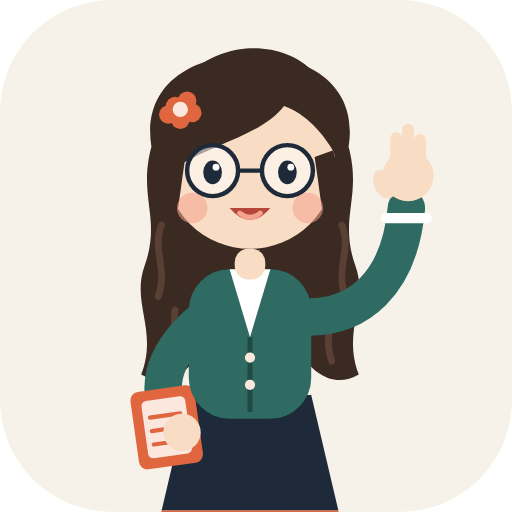
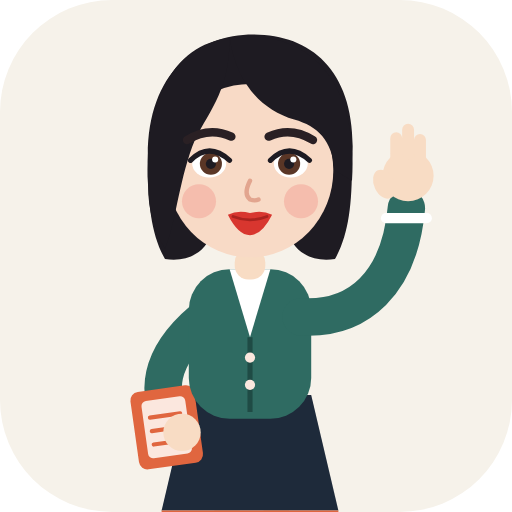
선생님 일러스트 얼굴을 보내주신 인물 느낌(검은 단발, 짙은 눈썹, 갈색 눈, 붉은 입술)으로 변경, 바로가기 아이콘 갱신
Claude-Session: https://claude.ai/code/session_01GFiG5geJu7jjXnYb4pYTSP

Changed region(s): [[0.25, 0.0625, 0.7188, 0.7188], [0.5938, 0.625, 0.7188, 0.75]]

diff --git a/index.html b/index.html
@@ -210,9 +210,6 @@ button.tile{border:0;width:100%;font-family:var(--f-label);cursor:pointer}
       <path d="M93 372c0-8 8-12 16-12h8v12c0 6-4 10-10 10h-8c-4 0-6-4-6-10z" fill="#1F4B45"/><path d="M149 372c0-8-8-12-16-12h-8v12c0 6 4 10 10 10h8c4 0 6-4 6-10z" fill="#1F4B45"/>
       <!-- skirt -->
       <path d="M84 250h72l16 68H68z" fill="#1E2A3A"/><path d="M68 318h104v6H68z" fill="#E0663F"/>
-      <!-- long wavy hair (behind body) -->
-      <g class="tail"><path d="M62 104C56 66 88 50 120 50s64 16 58 54c8 30-6 42 4 70 8 22-8 38 2 64-14 8-26 0-34-12H90c-8 12-20 20-34 12 10-26-6-42 2-64 10-28-4-40 4-70z" fill="#3B2A22"/>
-      <path d="M68 150c-6 14 4 26-2 42M174 150c6 14-4 26 2 42M76 200c-2 10 2 20-2 30M166 200c2 10-2 20 2 30" stroke="#5A4034" stroke-width="4" stroke-linecap="round" fill="none"/></g>
       <!-- book arm (viewer's left) -->
       <path d="M92 206c-26 22-28 44-16 60" stroke="#2F6B62" stroke-width="22" stroke-linecap="round" fill="none"/>
       <rect x="52" y="246" width="38" height="46" rx="5" fill="#E0663F" transform="rotate(-8 71 269)"/><rect x="58" y="252" width="26" height="34" rx="3" fill="#FBE7DE" transform="rotate(-8 71 269)"/><path d="M62 262h18M62 270h18M62 278h12" stroke="#E0663F" stroke-width="2.4" stroke-linecap="round" transform="rotate(-8 71 269)"/>
@@ -222,20 +219,20 @@ button.tile{border:0;width:100%;font-family:var(--f-label);cursor:pointer}
       <path d="M108 176l12 40 12-40z" fill="#fff"/><path d="M120 216v44" stroke="#1F4B45" stroke-width="3"/>
       <circle cx="120" cy="228" r="3" fill="#FBE7DE"/><circle cx="120" cy="244" r="3" fill="#FBE7DE"/>
       <rect x="111" y="164" width="18" height="18" rx="8" fill="#F8DCC4"/>
-      <!-- hair back -->
-      
-      <!-- head -->
-      <circle cx="120" cy="114" r="50" fill="#F8DCC4"/>
-      <!-- bangs -->
-      <path d="M71 106c-5 20-3 36 5 46 2-13 4-29 6-42z" fill="#3B2A22"/><path d="M169 106c5 20 3 36-5 46-2-13-4-29-6-42z" fill="#3B2A22"/>
-      <path d="M66 116C62 64 98 46 122 46c30 0 54 22 50 66-8-16-20-28-32-32-12 16-40 22-60 34-4 2-8 4-14 2z" fill="#3B2A22"/>
-      <g class="bow" transform="translate(-4 4)"><circle cx="80" cy="76" r="5.5" fill="#E0663F"/><circle cx="87" cy="73" r="5.5" fill="#E0663F"/><circle cx="90" cy="80" r="5.5" fill="#E0663F"/><circle cx="83" cy="84" r="5.5" fill="#E0663F"/><circle cx="76" cy="81" r="5.5" fill="#E0663F"/><circle cx="83" cy="78" r="4.5" fill="#FBE7DE"/></g>
-      <!-- glasses & eyes -->
-      <circle cx="98" cy="118" r="15" fill="#fff" fill-opacity=".55" stroke="#1E2A3A" stroke-width="2.6"/><circle cx="142" cy="118" r="15" fill="#fff" fill-opacity=".55" stroke="#1E2A3A" stroke-width="2.6"/><path d="M113 118h14" stroke="#1E2A3A" stroke-width="2.6"/>
-      <ellipse cx="98" cy="119" rx="5.5" ry="7" fill="#1E2A3A"/><ellipse cx="142" cy="119" rx="5.5" ry="7" fill="#1E2A3A"/>
-      <circle cx="100" cy="116" r="2" fill="#fff"/><circle cx="144" cy="116" r="2" fill="#fff"/>
-      <circle cx="86" cy="140" r="9" fill="#F4A38C" opacity=".55"/><circle cx="154" cy="140" r="9" fill="#F4A38C" opacity=".55"/>
-      <path d="M108 140q12 14 24 0z" fill="#B5473A"/><path d="M114 143q6 5 12 0" stroke="#F4A38C" stroke-width="3" stroke-linecap="round" fill="none"/>
+      <!-- hair & face -->
+      <g class="tail"><path d="M60 114C58 62 88 38 122 38c36 0 62 24 58 76 0 24-2 42-10 56-14 2-24-4-28-16H98c-4 12-14 18-28 16-8-14-10-32-10-56z" fill="#1E1B22"/></g>
+      <ellipse cx="120" cy="118" rx="49" ry="51" fill="#F8DAC6"/>
+      <path d="M108 40C152 34 184 62 180 124l-10-6c-2-18-10-26-24-30-20-6-34-22-38-48z" fill="#1E1B22"/>
+      <path d="M108 40C74 44 58 78 60 126c0 16 4 28 10 38 6-14 8-38 16-60 8-20 22-30 22-64z" fill="#1E1B22"/>
+      <path d="M83 100q13-8 26-2M131 98q13-6 26 2" stroke="#2A2024" stroke-width="5" stroke-linecap="round" fill="none"/>
+      <ellipse cx="96" cy="114" rx="10" ry="8" fill="#fff"/><ellipse cx="144" cy="114" rx="10" ry="8" fill="#fff"/>
+      <circle cx="97" cy="114" r="6.5" fill="#5A3626"/><circle cx="143" cy="114" r="6.5" fill="#5A3626"/>
+      <circle cx="97" cy="114" r="3" fill="#1E1B22"/><circle cx="143" cy="114" r="3" fill="#1E1B22"/>
+      <circle cx="99.5" cy="111.5" r="1.8" fill="#fff"/><circle cx="145.5" cy="111.5" r="1.8" fill="#fff"/>
+      <path d="M85 112q11-11 23 0M132 112q11-11 23 0" stroke="#1E1B22" stroke-width="3" stroke-linecap="round" fill="none"/>
+      <path d="M120 124q-4 8 0 11q3 1 5 0" stroke="#E2A58F" stroke-width="2.6" stroke-linecap="round" fill="none"/>
+      <circle cx="90" cy="136" r="10" fill="#F29A8E" opacity=".45"/><circle cx="150" cy="136" r="10" fill="#F29A8E" opacity=".45"/>
+      <path d="M107 144q6-3 13-1q7-2 13 1q-6 12-13 12t-13-12z" fill="#D8362F"/><path d="M110 145q10 4 20 0" stroke="#A8231F" stroke-width="1.6" stroke-linecap="round" fill="none"/>
       <!-- waving arm -->
       <g class="wave"><path d="M150 204c34 2 58-20 62-64" stroke="#2F6B62" stroke-width="22" stroke-linecap="round" fill="none"/>
         <path d="M200 146h24" stroke="#fff" stroke-width="6" stroke-linecap="round"/>
